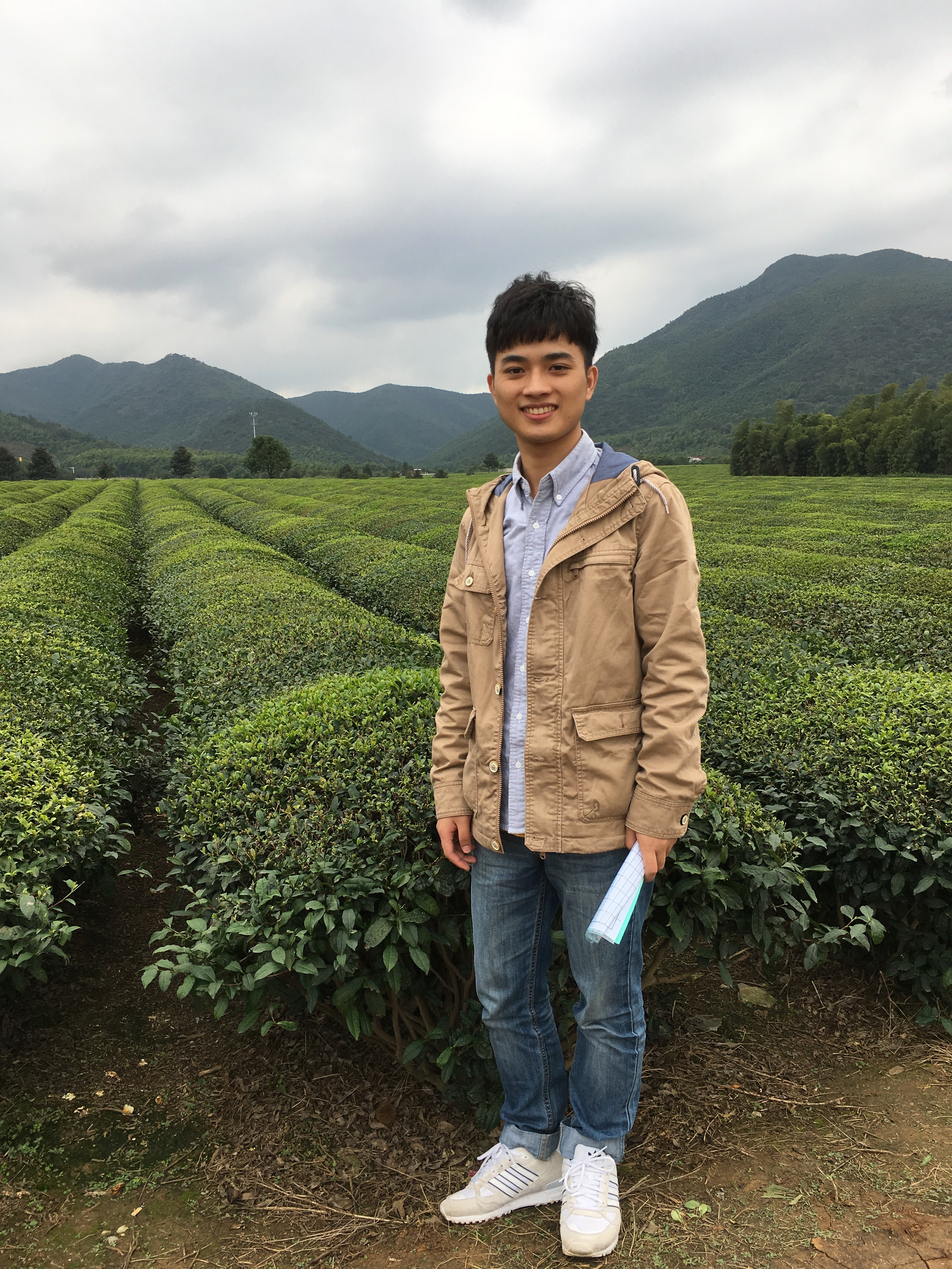
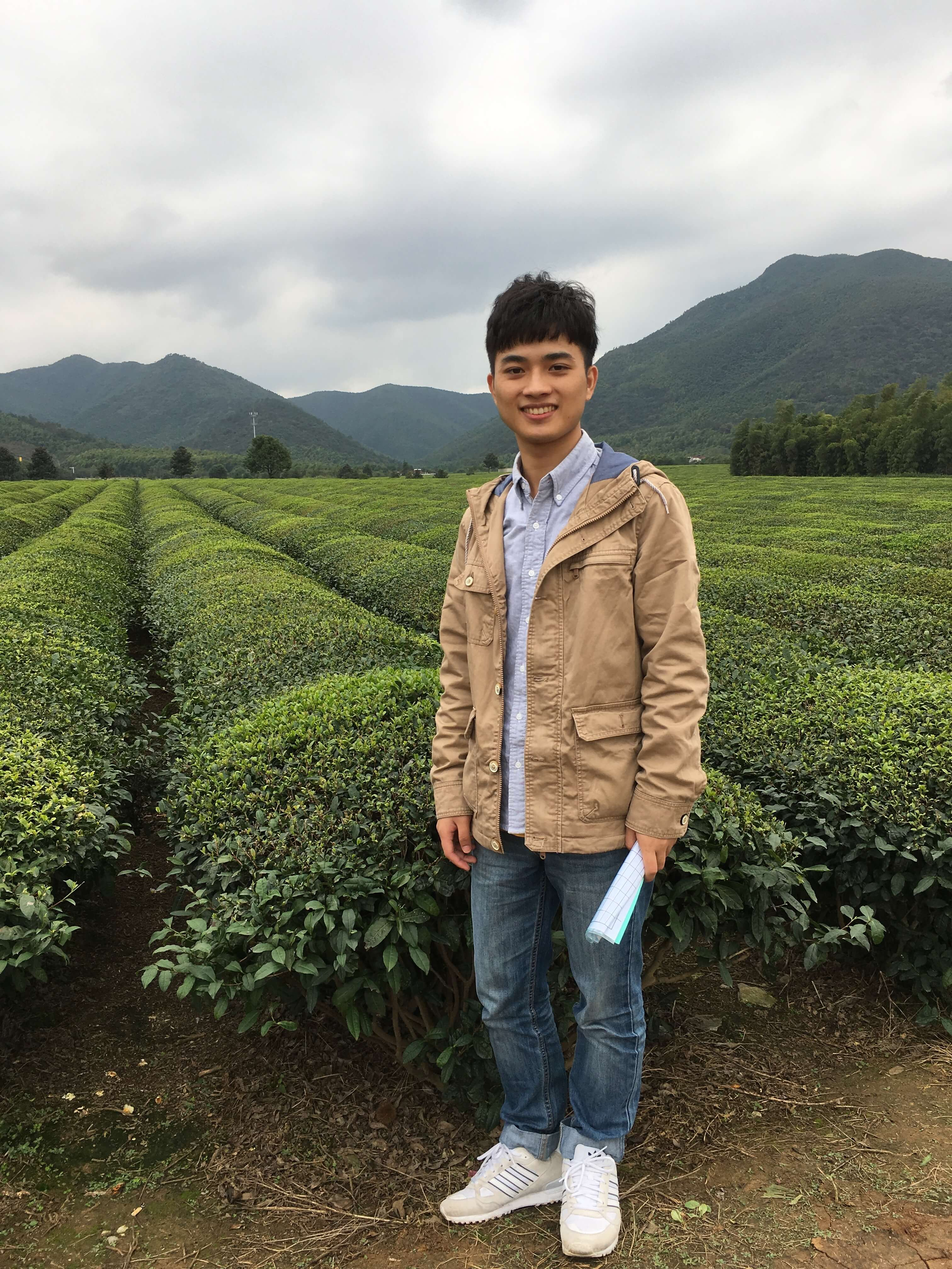
压缩图片

diff --git a/build/webpack.base.conf.js b/build/webpack.base.conf.js
@@ -8,8 +8,6 @@ function resolve (dir) {
   return path.join(__dirname, '..', dir)
 }
 
-
-
 module.exports = {
   context: path.resolve(__dirname, '../'),
   entry: {
@@ -41,14 +39,14 @@ module.exports = {
         loader: 'babel-loader',
         include: [resolve('src'), resolve('test'), resolve('node_modules/webpack-dev-server/client')]
       },
-      {
-        test: /\.(png|jpe?g|gif|svg)(\?.*)?$/,
-        loader: 'url-loader',
-        options: {
-          limit: 10000,
-          name: utils.assetsPath('img/[name].[hash:7].[ext]')
-        }
-      },
+      // {
+      //   test: /\.(png|jpe?g|gif|svg)(\?.*)?$/,
+      //   loader: 'url-loader',
+      //   options: {
+      //     limit: 10000,
+      //     name: utils.assetsPath('img/[name].[hash:7].[ext]')
+      //   }
+      // },
       {
         test: /\.(mp4|webm|ogg|mp3|wav|flac|aac)(\?.*)?$/,
         loader: 'url-loader',
@@ -64,7 +62,24 @@ module.exports = {
           limit: 10000,
           name: utils.assetsPath('fonts/[name].[hash:7].[ext]')
         }
+      },
+      {
+        test: /\.(gif|png|jpe?g|svg)$/i,
+        use: [
+          'file-loader',
+          {
+            loader: 'image-webpack-loader',
+            options: {
+              
+              disable: false, // webpack@2.x and newer
+              webp: {
+                quality: 60
+              }
+            },
+          },
+        ],
       }
+
     ]
   },
   node: {
@@ -85,4 +100,4 @@ module.exports = {
       jQuery:'jquery'
     })
   ]
-} 
+}
